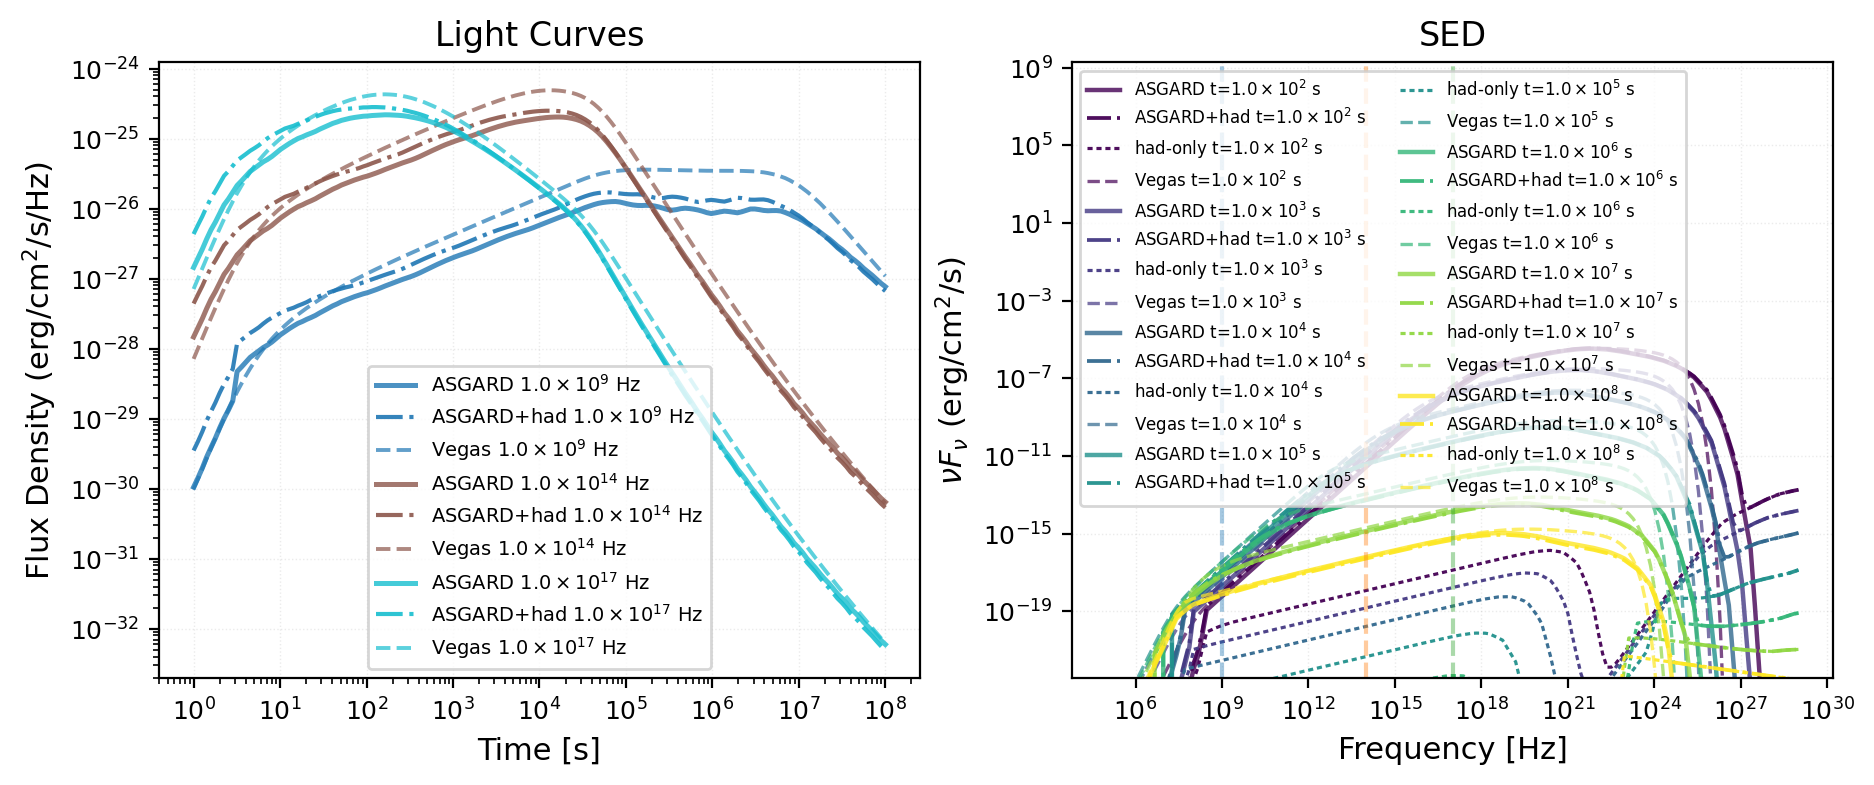
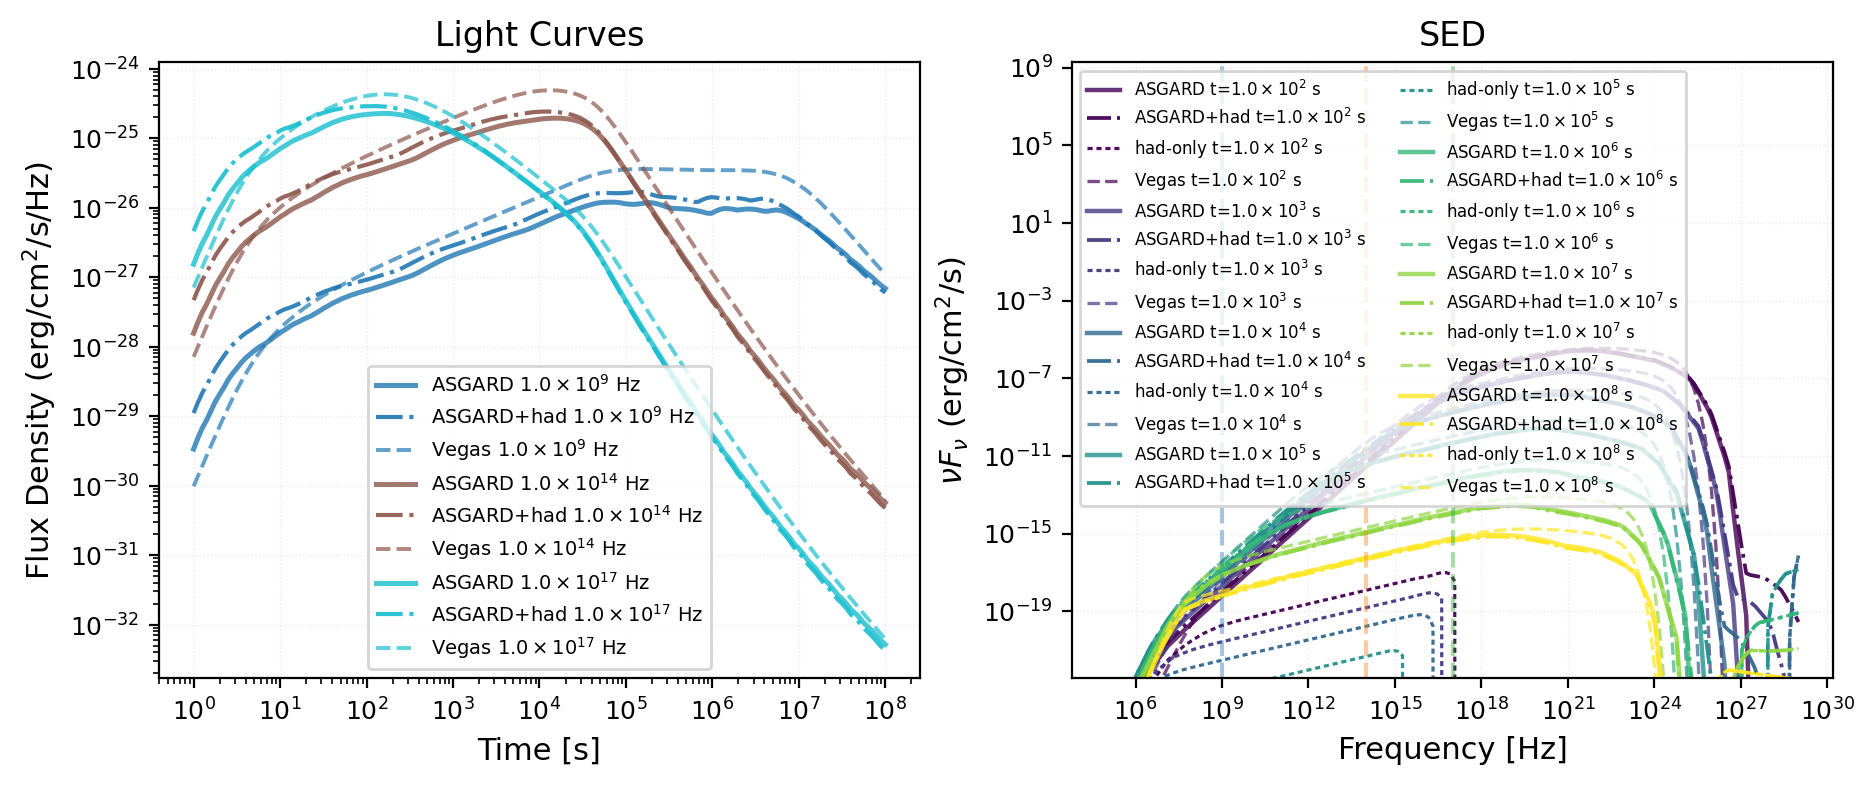
刷新Vegas benchmark图像产物

diff --git a/tests/vegas_afterglow_comparison.py b/tests/vegas_afterglow_comparison.py
@@ -567,7 +567,7 @@ def _build_reverse_shock_lc() -> Path:
         fwd_a = np.asarray(as_res.fwd.sync[i, :], dtype=float)
         fwd_v = np.asarray(vg_res.fwd.sync[i, :], dtype=float)
         rvs_a = np.asarray(as_res.rev.sync[i, :], dtype=float)
-        rvs_v = np.asarray(vg_res.rev.sync[i, :], dtype=float)
+        rvs_v = np.asarray(vg_res.rvs.sync[i, :], dtype=float)
         ax.loglog(times, fwd_a, color=f"C{i}", lw=1.8, alpha=ASGARD_ALPHA, label=f"ASGARD fwd {label}")
         ax.loglog(times, fwd_v, color=f"C{i}", ls="--", lw=1.3, alpha=VEGAS_ALPHA, label=f"Vegas fwd {label}")
         ax.loglog(times, rvs_a, color=f"C{i}", ls="-.", lw=1.8, alpha=0.7, label=f"ASGARD rvs {label}")
@@ -622,7 +622,7 @@ def _build_reverse_shock_thermal_benchmark() -> Path:
         raise RuntimeError("reverse-shock dynamics are required for the RS thermal benchmark.")
 
     t_ref = _reference_series(detail_asgard.rev.t_obs)
-    t_vegas = _reference_series(detail_vegas.rev.t_obs)
+    t_vegas = _reference_series(detail_vegas.rvs.t_obs)
     attrs = ("Gamma", "B_comv", "N_p", "nu_m", "nu_c", "nu_a")
     vegas_z = _benchmark_scenario().z
 
@@ -630,11 +630,11 @@ def _build_reverse_shock_thermal_benchmark() -> Path:
     ratio_axes = axes[:2, :].ravel()
     for ax, attr in zip(ratio_axes, attrs):
         asgard_y = _reference_series(getattr(detail_asgard.rev, attr))
-        vegas_y = _reference_series(getattr(detail_vegas.rev, attr))
+        vegas_y = _reference_series(getattr(detail_vegas.rvs, attr))
         if attr == "N_p":
             vegas_y = vegas_y * (4.0 * np.pi)
         if attr in {"nu_m", "nu_c"}:
-            vegas_y = _to_lab_frequency_frame(vegas_y, _reference_series(detail_vegas.rev.Doppler), vegas_z)
+            vegas_y = _to_lab_frequency_frame(vegas_y, _reference_series(detail_vegas.rvs.Doppler), vegas_z)
         vegas_interp = _safe_log_interp(t_ref, t_vegas, vegas_y)
         ratio = np.divide(
             asgard_y,
